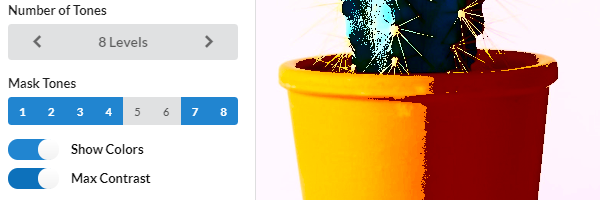
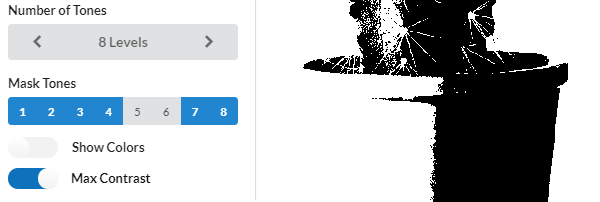
enh(readme): update details on color code and use Tone instead of Value or Lightness.

diff --git a/README.md b/README.md
@@ -17,6 +17,8 @@ Pan and zoom into an image fluidly showing all tones and colors. You can zoom in
 ## HCL Color Space
 Tap on a region to get a readout of a particular color, its HCL values and other colors with the same hue. Mark a region and you can get see where the colors are located in 3D HCL space. You can also add labels for the pigment colors you have in your palette. 
 
+The three digit code is a shorthand for specifying a color in HCL space. For example, a vibrant red is coded '5C9', which stands for a Tone of 5 (0=Black, 5=Midtone, 10=White), a Hue Angle of 30' (A=0', B=15', C=30', ... Y=360') and a Chroma of 9 (0=greyscale, 10=saturated). A light terracotta color is coded '7D6', which stands for a light Tone of 7, a Hue angle of 45' and a Saturation of 6.
+
 On a Desktop Mouse 1 rotates the HCL color space, Mouse 2 pans the color space and the Mouse Wheel zooms into the color space. On a Touch device, One Finger Drag rotates the HCL color space, Three Finger drag pans the color space and Pinch zooms the color space.
 
 ![Color Space](/public/images/img003-hcl.png)
@@ -27,21 +29,21 @@ To see how well the image reads without color, uncheck Show Colors and zoom out.
 ![Black and White](/public/images/img004-bw.png)
 
 ## Thresholds
-Select the number of tone thresholds to view the highlights, midtones and darks. Selecting the Raise and Lower will adjust the number of levels. Selecting Levels once will remove any Masked Tones. Selecting Levels twice will remove the thresholds and go back to All Levels.
+Select the number of tone thresholds to view the highlights, midtones and darks. Selecting the Raise and Lower will adjust the number of levels. Selecting Levels once will remove any Masked Tones. Selecting Levels twice will remove the thresholds and go back to All Levels. 
 
 ![Thresholds](/public/images/img005-levels.png)
 
 ## Hard and Soft Edges
-To see which are hard or soft edges, check Show Soft Edges. Edges between levels that are soft are shown with a diagonal cross-hatch.
+To see which are hard or soft edges, check Show Soft Edges. Edges between tones that are soft are shown with a diagonal cross-hatch.
 
 ![Soft Edges](/public/images/img006-soft.png)
 
-## Mask Dark Levels
-Select levels 1, 2, upwards to mask the dark levels. This allows you to paint the light tones first, ignoring any dark glazes that will be added in later.
+## Mask Dark Tones
+Select levels 1, 2, upwards to mask the dark tones. This allows you to paint the light tones first, ignoring any dark tones that will be added in later.
 
 ![Mask Darks](/public/images/img007-mask1.png)
 
-## Mask Light Levels
+## Mask Light Tones
 Select the upper levels to mask the light tones. Leave at least two tones visible to see an edge. This can help when painting the darker tones as it removes the detail in the light tones.
 
 ![Mask Lights](/public/images/img008-mask2.png)
@@ -51,3 +53,5 @@ To trace a particular edge, mask the darks or lights, uncheck Show Colors, then 
 
 ![Constrat](/public/images/img009-contrast.png)
 
+## Multiple Monitors and Devices
+This application supports Multiple Monitors and Devices. You can open different views on separate browser tabs, even on different monitors and across a Desktop and a Tablet at the same time. The application communicates to each view and keeps the settings in sync. For example, you can view the 3D HCL Color Space on one monitor, the original image on another, and a black and white version on a tablet for tracing - all at the same time.
